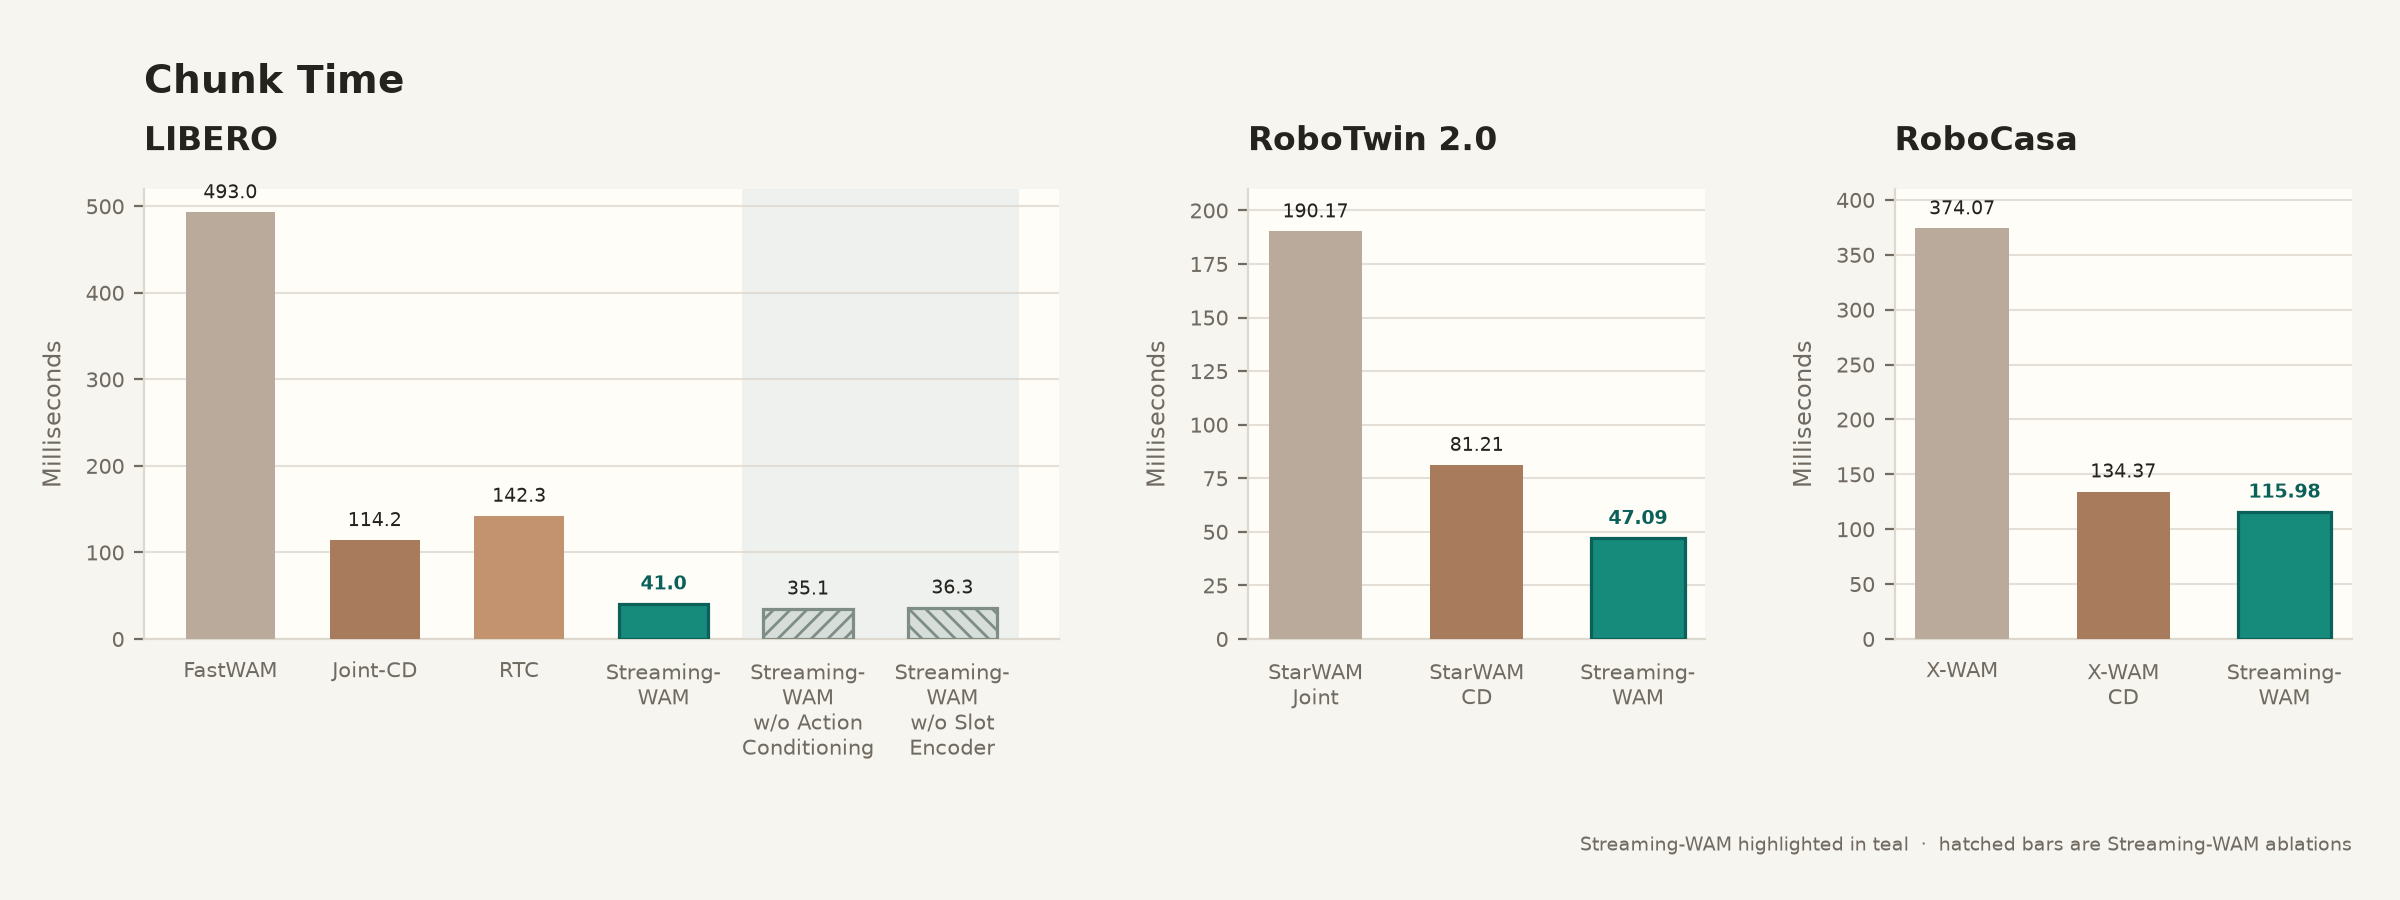
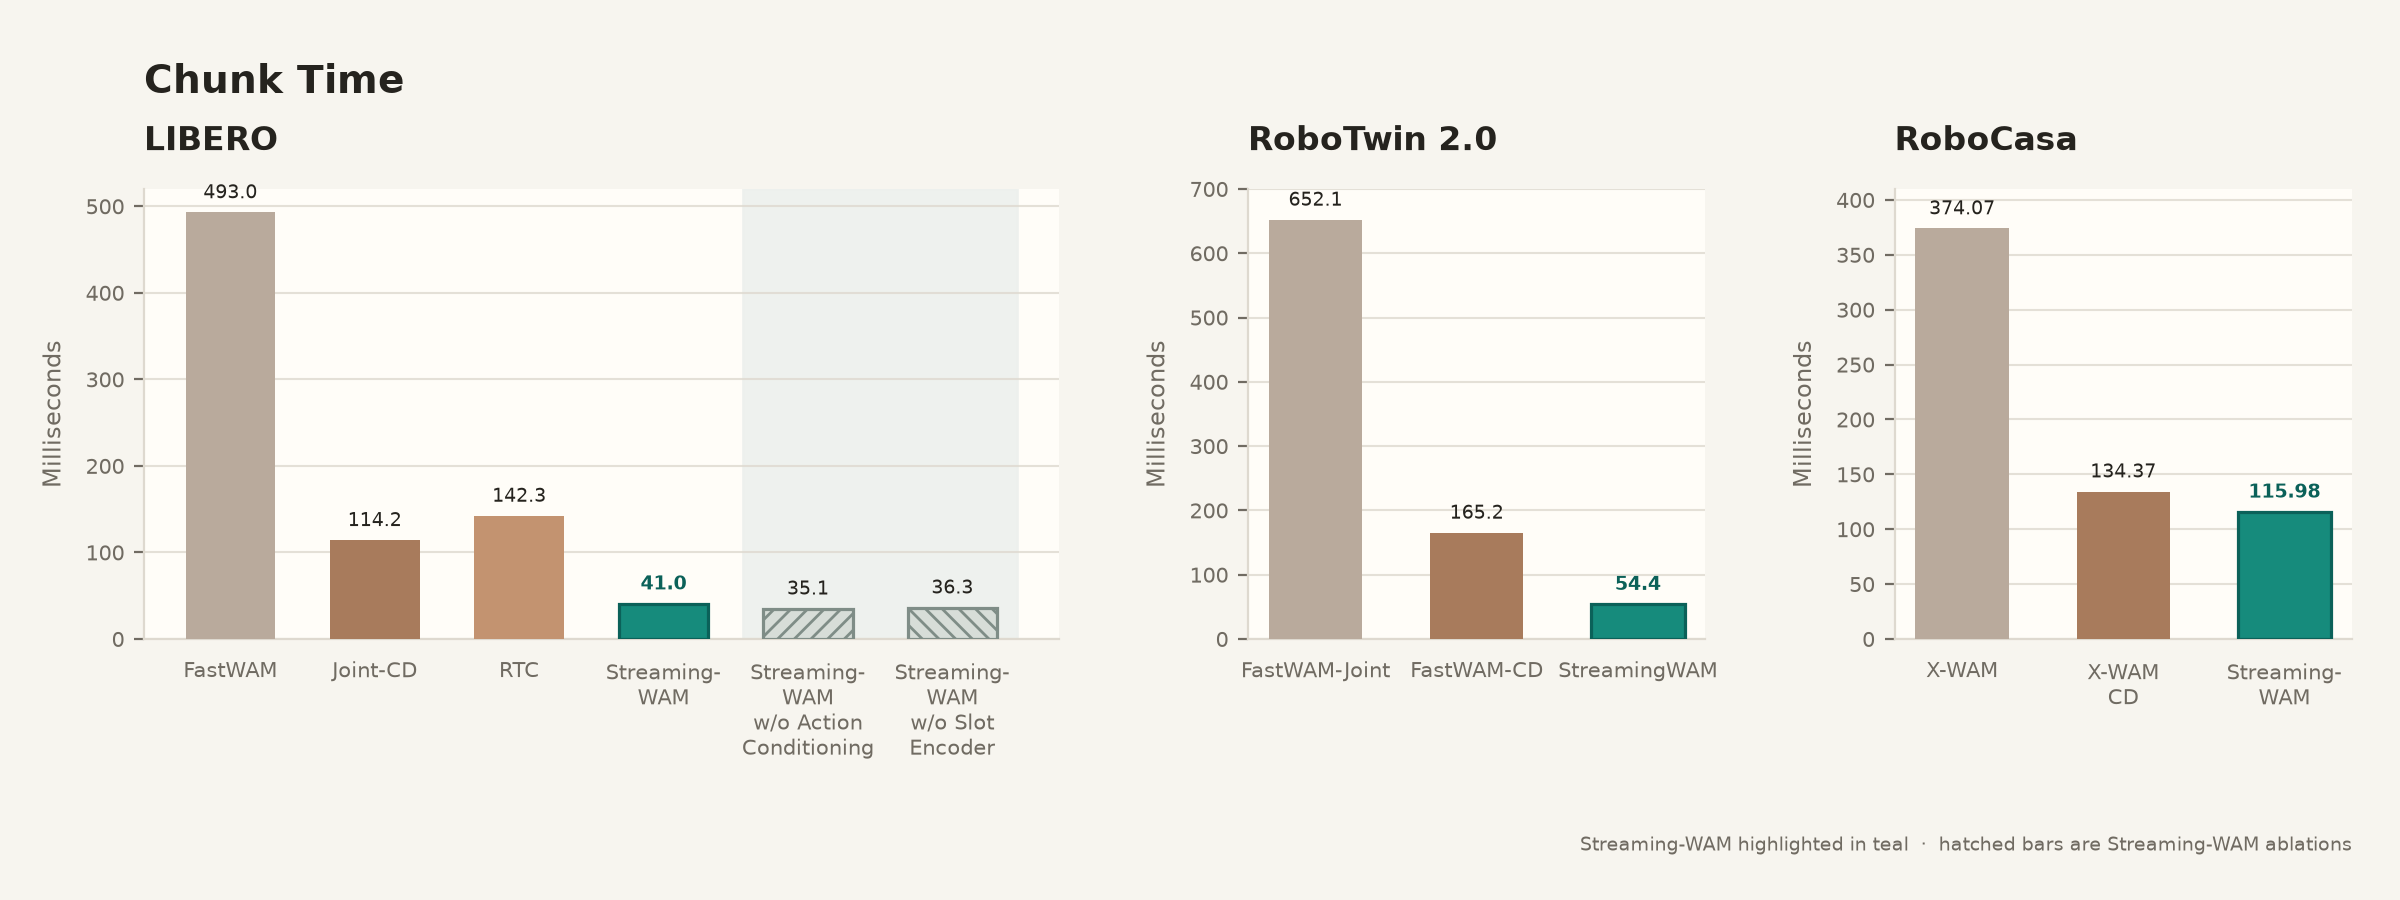
docs: update RoboTwin benchmark results

diff --git a/docs/index.html b/docs/index.html
@@ -263,7 +263,7 @@
 
         <section class="article-section experiments" id="experiments" aria-label="Current results">
           <div class="reading-column">
-            <p class="lead"><strong>Task performance.</strong> To evaluate Streaming-WAM across WAM families, we further train FastWAM-Joint with the streaming approach on LIBERO and apply the same design to StarWAM on RoboTwin 2.0 and X-WAM on RoboCasa. All evaluations use four NVIDIA H100 GPUs.</p>
+            <p class="lead"><strong>Task performance.</strong> We evaluate FastWAM-Joint and its streaming variant on LIBERO and RoboTwin 2.0, and apply the same streaming design to X-WAM on RoboCasa. All evaluations use four NVIDIA H100 GPUs.</p>
             <p>We compare against general purpose robot policies and WAM baselines on task performance, and against WAM baselines on inference efficiency. CD denotes one-step consistency distillation. On LIBERO, we also ablate action conditioning and the slot encoder to assess each component. Best and second best task results are shown in <strong>bold</strong> and <u>underlined</u>, respectively.</p>
           </div>
 
@@ -302,14 +302,9 @@
                 <caption>RoboTwin 2.0 clean and randomized results</caption>
                 <thead><tr><th scope="col">Method</th><th scope="col">Clean ↑</th><th scope="col">Random ↑</th><th scope="col">Total ↑</th></tr></thead>
                 <tbody>
-                  <tr><th scope="row">π₀</th><td>65.92</td><td>58.40</td><td>62.2</td></tr>
-                  <tr><th scope="row">π₀.₅</th><td>82.74</td><td>76.76</td><td>79.8</td></tr>
-                  <tr><th scope="row">Motus</th><td><strong>88.66</strong></td><td>87.02</td><td><strong>87.8</strong></td></tr>
-                  <tr><th scope="row">Motus from WAN2.2</th><td>77.56</td><td>77.00</td><td>77.3</td></tr>
-                  <tr><th scope="row">FastWAM-Joint</th><td><u>87.8</u></td><td><u>87.32</u></td><td>87.56</td></tr>
-                  <tr><th scope="row">StarWAM-Joint</th><td>84.8</td><td>86.0</td><td>85.4</td></tr>
-                  <tr><th scope="row">StarWAM-CD</th><td>79.0</td><td>79.2</td><td>79.1</td></tr>
-                  <tr><th scope="row">Streaming-WAM (Ours)</th><td>87.2</td><td><strong>88.8</strong></td><td><u>87.6</u></td></tr>
+                  <tr><th scope="row">FastWAM-Joint</th><td><u>86.4</u></td><td><u>87.6</u></td><td><u>87.0</u></td></tr>
+                  <tr><th scope="row">FastWAM-CD</th><td>86.2</td><td>85.8</td><td>86.0</td></tr>
+                  <tr><th scope="row">StreamingWAM</th><td><strong>90.4</strong></td><td><strong>90.8</strong></td><td><strong>90.6</strong></td></tr>
                 </tbody>
               </table>
             </div>
@@ -357,20 +352,20 @@
 
           <div class="efficiency-intro reading-column">
             <p><strong>Inference efficiency.</strong> Task success alone does not characterize runtime efficiency. We therefore report Chunk Time, the latency required to prepare the next action chunk, and Episode Time, the duration of a complete rollout, including inference, execution, and replanning.</p>
-            <p>Across all three benchmarks, Streaming-WAM reduces both runtime measures while maintaining comparable task success. On LIBERO, it achieves a 12.0× Chunk Time speedup over FastWAM and Episode Time speedups of 3.0× and 2.6× on Long and Short tasks, respectively, with 98.20% average success. On RoboTwin 2.0, relative to StarWAM-Joint, Chunk Time falls from 190.17 ms to 47.09 ms and Episode Time from 110.22 s to 77.48 s, while overall success increases from 85.4 to 87.6. On RoboCasa, relative to X-WAM, Streaming-WAM achieves a 3.2× Chunk Time speedup and a 1.8× Episode Time speedup, with comparable average success (75.35% versus 75.42%).</p>
+            <p>Across all three benchmarks, Streaming-WAM reduces both runtime measures while maintaining comparable task success. On LIBERO, it achieves a 12.0× Chunk Time speedup over FastWAM and Episode Time speedups of 3.0× and 2.6× on Long and Short tasks, respectively, with 98.20% average success. On RoboTwin 2.0, relative to FastWAM-Joint, StreamingWAM reduces Chunk Time from 652.1 ms to 54.4 ms and Episode Time from 24.26 s to 20.14 s, while increasing overall success from 87.0 to 90.6. On RoboCasa, relative to X-WAM, Streaming-WAM achieves a 3.2× Chunk Time speedup and a 1.8× Episode Time speedup, with comparable average success (75.35% versus 75.42%).</p>
           </div>
           <figure class="latency-figure breakout" aria-labelledby="chunk-time-caption">
             <div class="latency-viewport">
-              <a class="latency-image-link" href="assets/streaming-wam-chunk-time.png?v=robocasa-latency-20260826" target="_blank" rel="noopener noreferrer" aria-label="Open the full-resolution Streaming-WAM Chunk Time figure">
-                <img class="latency-plot" src="assets/streaming-wam-chunk-time.png?v=robocasa-latency-20260826" alt="Chunk-time comparison for LIBERO, RoboTwin 2.0, and RoboCasa." width="2400" height="900" aria-describedby="chunk-time-caption latency-data-caption">
+              <a class="latency-image-link" href="assets/streaming-wam-chunk-time.png?v=robotwin-fastwam-20260830" target="_blank" rel="noopener noreferrer" aria-label="Open the full-resolution Streaming-WAM Chunk Time figure">
+                <img class="latency-plot" src="assets/streaming-wam-chunk-time.png?v=robotwin-fastwam-20260830" alt="Chunk-time comparison for LIBERO, RoboTwin 2.0, and RoboCasa." width="2400" height="900" aria-describedby="chunk-time-caption latency-data-caption">
               </a>
             </div>
             <figcaption id="chunk-time-caption">Chunk Time comparison for LIBERO, RoboTwin 2.0, and RoboCasa. Each benchmark uses its own continuous scale.</figcaption>
           </figure>
           <figure class="latency-figure breakout" aria-labelledby="episode-time-caption">
             <div class="latency-viewport">
-              <a class="latency-image-link" href="assets/streaming-wam-episode-time.png?v=robocasa-latency-20260826" target="_blank" rel="noopener noreferrer" aria-label="Open the full-resolution Streaming-WAM Episode Time figure">
-                <img class="latency-plot" src="assets/streaming-wam-episode-time.png?v=robocasa-latency-20260826" alt="Episode-time comparison for LIBERO, RoboTwin 2.0, and RoboCasa." width="2400" height="900" aria-describedby="episode-time-caption latency-data-caption">
+              <a class="latency-image-link" href="assets/streaming-wam-episode-time.png?v=robotwin-fastwam-20260830" target="_blank" rel="noopener noreferrer" aria-label="Open the full-resolution Streaming-WAM Episode Time figure">
+                <img class="latency-plot" src="assets/streaming-wam-episode-time.png?v=robotwin-fastwam-20260830" alt="Episode-time comparison for LIBERO, RoboTwin 2.0, and RoboCasa." width="2400" height="900" aria-describedby="episode-time-caption latency-data-caption">
               </a>
             </div>
             <figcaption id="episode-time-caption">Episode Time comparison for LIBERO, RoboTwin 2.0, and RoboCasa. LIBERO reports Long and Short tasks separately.</figcaption>
@@ -385,9 +380,9 @@
                 <tr><th scope="row">LIBERO</th><td>Streaming-WAM</td><td>41.0 ms</td><td>5.36 s Long / 3.15 s Short</td></tr>
                 <tr><th scope="row">LIBERO</th><td>Streaming-WAM w/o Action Conditioning</td><td>35.1 ms</td><td>5.20 s Long / 2.92 s Short</td></tr>
                 <tr><th scope="row">LIBERO</th><td>Streaming-WAM w/o Slot Encoder</td><td>36.3 ms</td><td>5.31 s Long / 3.01 s Short</td></tr>
-                <tr><th scope="row">RoboTwin 2.0</th><td>StarWAM-Joint</td><td>190.17 ms</td><td>110.22 s</td></tr>
-                <tr><th scope="row">RoboTwin 2.0</th><td>StarWAM-CD</td><td>81.21 ms</td><td>102.59 s</td></tr>
-                <tr><th scope="row">RoboTwin 2.0</th><td>Streaming-WAM</td><td>47.09 ms</td><td>77.48 s</td></tr>
+                <tr><th scope="row">RoboTwin 2.0</th><td>FastWAM-Joint</td><td>652.1 ms</td><td>24.26 s</td></tr>
+                <tr><th scope="row">RoboTwin 2.0</th><td>FastWAM-CD</td><td>165.2 ms</td><td>20.63 s</td></tr>
+                <tr><th scope="row">RoboTwin 2.0</th><td>StreamingWAM</td><td>54.4 ms</td><td>20.14 s</td></tr>
                 <tr><th scope="row">RoboCasa</th><td>X-WAM</td><td>374.07 ms</td><td>17.36 s</td></tr>
                 <tr><th scope="row">RoboCasa</th><td>X-WAM-CD</td><td>134.37 ms</td><td>13.04 s</td></tr>
                 <tr><th scope="row">RoboCasa</th><td>Streaming-WAM</td><td>115.98 ms</td><td>9.49 s</td></tr>

diff --git a/docs/generate_latency_figure.py b/docs/generate_latency_figure.py
@@ -40,9 +40,9 @@ LIBERO_CHUNK = (493.0, 114.2, 142.3, 41.0, 35.1, 36.3)
 LIBERO_LONG = (16.31, 6.89, 6.23, 5.36, 5.20, 5.31)
 LIBERO_SHORT = (8.25, 3.74, 3.20, 3.15, 2.92, 3.01)
 
-ROBOTWIN_METHODS = ("StarWAM\nJoint", "StarWAM\nCD", "Streaming-\nWAM")
-ROBOTWIN_CHUNK = (190.17, 81.21, 47.09)
-ROBOTWIN_EPISODE = (110.22, 102.59, 77.48)
+ROBOTWIN_METHODS = ("FastWAM-Joint", "FastWAM-CD", "StreamingWAM")
+ROBOTWIN_CHUNK = (652.1, 165.2, 54.4)
+ROBOTWIN_EPISODE = (24.26, 20.63, 20.14)
 ROBOCASA_METHODS = ("X-WAM", "X-WAM\nCD", "Streaming-\nWAM")
 ROBOCASA_CHUNK = (374.07, 134.37, 115.98)
 ROBOCASA_EPISODE = (17.36, 13.04, 9.49)
@@ -171,6 +171,7 @@ def _draw_three_method_panel(
     methods: tuple[str, ...],
     values: tuple[float, ...],
     ceiling: float,
+    precision: int = 2,
 ) -> None:
     _style_axis(axis, ylabel=ylabel, title=title)
     positions = np.arange(3)
@@ -183,7 +184,7 @@ def _draw_three_method_panel(
         linewidth=1.15,
         zorder=3,
     )
-    _annotate(axis, bars, values, ceiling=ceiling, precision=2, stream_indices=(2,))
+    _annotate(axis, bars, values, ceiling=ceiling, precision=precision, stream_indices=(2,))
     axis.set_ylim(0, ceiling)
     axis.set_xticks(positions, methods)
 
@@ -224,7 +225,7 @@ def render_chunk_time(output_path: Path) -> None:
     _draw_libero_chunk(axes[0])
     _draw_three_method_panel(
         axes[1], title="RoboTwin 2.0", ylabel="Milliseconds", methods=ROBOTWIN_METHODS,
-        values=ROBOTWIN_CHUNK, ceiling=210,
+        values=ROBOTWIN_CHUNK, ceiling=700, precision=1,
     )
     _draw_three_method_panel(
         axes[2], title="RoboCasa", ylabel="Milliseconds", methods=ROBOCASA_METHODS,
@@ -240,7 +241,7 @@ def render_episode_time(output_path: Path) -> None:
     _draw_libero_episode(axes[0])
     _draw_three_method_panel(
         axes[1], title="RoboTwin 2.0", ylabel="Seconds", methods=ROBOTWIN_METHODS,
-        values=ROBOTWIN_EPISODE, ceiling=125,
+        values=ROBOTWIN_EPISODE, ceiling=28,
     )
     _draw_three_method_panel(
         axes[2], title="RoboCasa", ylabel="Seconds", methods=ROBOCASA_METHODS,
